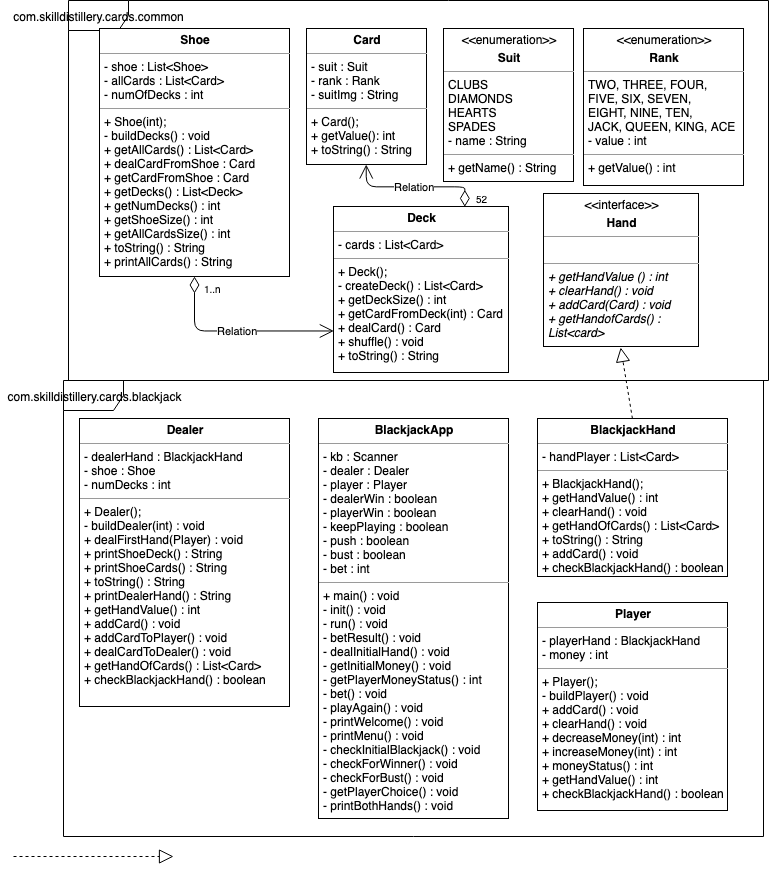
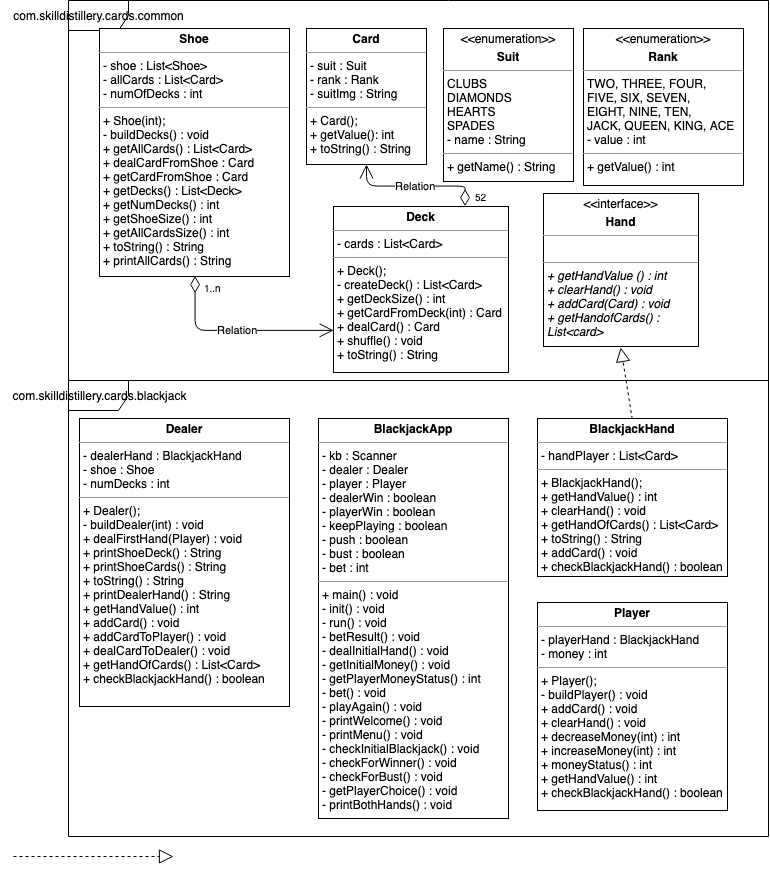
Tweaked alignment on the UML

diff --git a/src/com/skilldistillery/cards/blackjack/Player.java b/src/com/skilldistillery/cards/blackjack/Player.java
@@ -3,6 +3,7 @@ package com.skilldistillery.cards.blackjack;
 import java.util.List;
 
 import com.skilldistillery.cards.common.Card;
+import com.skilldistillery.cards.connector.SaveMoneyToFile;
 
 public class Player {
 
@@ -62,6 +63,12 @@ public class Player {
 
 	public boolean checkBlackjackHand() {
 		return playerHand.checkBlackjackHand();
+	}
+	
+	public boolean saveMoney() {
+		SaveMoneyToFile mSaver = new SaveMoneyToFile();
+		mSaver.saveMoney();
+		return false;		
 	}
 
 }

diff --git a/src/com/skilldistillery/cards/connector/SaveMoneyToFile.java b/src/com/skilldistillery/cards/connector/SaveMoneyToFile.java
@@ -1,0 +1,11 @@
+package com.skilldistillery.cards.connector;
+
+public class SaveMoneyToFile implements SaveMoney{
+
+	@Override
+	public boolean saveMoney() {
+		// TODO Auto-generated method stub
+		return false;
+	}
+
+}

diff --git a/src/com/skilldistillery/cards/connector/SaveMoney.java b/src/com/skilldistillery/cards/connector/SaveMoney.java
@@ -1,0 +1,5 @@
+package com.skilldistillery.cards.connector;
+
+interface SaveMoney {
+	abstract boolean saveMoney();
+}

diff --git a/src/com/skilldistillery/cards/connector/WriteMoneyToDatabase.java b/src/com/skilldistillery/cards/connector/WriteMoneyToDatabase.java
@@ -1,0 +1,5 @@
+package com.skilldistillery.cards.connector;
+
+public class WriteMoneyToDatabase {
+
+}
